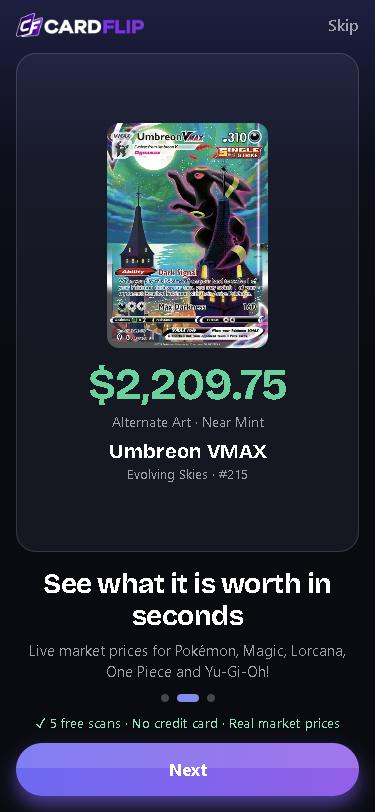
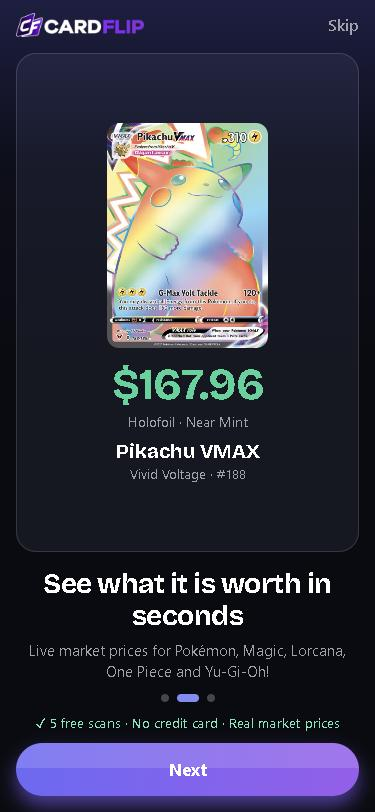
App intro: card 2 reveals the same Pikachu VMAX as card 1 (Chris 2:09am)
"image 2 has to match the card from image 1 and included in image 3": the
reveal card is now the Pikachu VMAX, $167.96, Holofoil - Near Mint, Vivid
Voltage #188; card 3 already lists it. Shot re-taken.

Changed region(s): [[0.2347, 0.1232, 0.7627, 0.6158]]

diff --git a/mobile/src/app/intro.tsx b/mobile/src/app/intro.tsx
@@ -155,11 +155,11 @@ function Corner({ at }: { at: "tl" | "tr" | "bl" | "br" }) {
 function RevealStill() {
   return (
     <View style={stills.frame}>
-      <Image source={umbreon} style={stills.revealCard} contentFit="cover" />
-      <Text style={stills.price}>$2,209.75</Text>
-      <Text style={stills.priceSub}>Alternate Art · Near Mint</Text>
-      <Text style={stills.name}>Umbreon VMAX</Text>
-      <Text style={stills.nameSub}>Evolving Skies · #215</Text>
+      <Image source={pikachu} style={stills.revealCard} contentFit="cover" />
+      <Text style={stills.price}>$167.96</Text>
+      <Text style={stills.priceSub}>Holofoil · Near Mint</Text>
+      <Text style={stills.name}>Pikachu VMAX</Text>
+      <Text style={stills.nameSub}>Vivid Voltage · #188</Text>
     </View>
   );
 }

diff --git a/docs/TO-TEST.md b/docs/TO-TEST.md
@@ -1,7 +1,7 @@
 # To test later
 
 ## 10-29 2:05AM ET: first open = the three swipe cards (APP-PLAN "First open" step 2; Chris 1:56am "start at the swipe cards"; app code only; unpushed, bulk push)
-- [x] What: mobile/src/app/intro.tsx = three swipe cards, Skip top right, dots, Next / Get started, the free deal line (5 free scans · No credit card · Real market prices) over the button. Card 1 Scan any card (the scanner guide with a card in it + Capture), card 2 See what it is worth in seconds (the reveal: card, $2,209.75 green, name), card 3 Track your collection or sell on eBay (three Inventory rows + the Unsold total). Each card is drawn from the app pieces, so a Blender clip can take a card picture slot later with no flow change. Shown once per install (introStore.ts, keychain flag; Skip counts). Launch: signed in → Inventory; first open → intro; after → sign in. Get started → /login for now; the "Scan Your First Card!" page (step 3) slots in there next. Pictures bundled: assets/images/intro (Pikachu VMAX swsh4-188 = the fat Pikachu, Chris 2:06am "fat pikachu, perfect", on card 1 and in the rows; Umbreon VMAX swsh7-215; Charizard ecard3-146; real catalog pictures + prices from the site 2:00am). Logo image top left, not text (Chris 2:03am).
+- [x] What: mobile/src/app/intro.tsx = three swipe cards, Skip top right, dots, Next / Get started, the free deal line (5 free scans · No credit card · Real market prices) over the button. Card 1 Scan any card (the scanner guide with a card in it + Capture), card 2 See what it is worth in seconds (the reveal: the SAME Pikachu VMAX, $167.96 green, Holofoil · Near Mint, name; Chris 2:09am "image 2 has to match the card from image 1 and included in image 3"), card 3 Track your collection or sell on eBay (three Inventory rows + the Unsold total). Each card is drawn from the app pieces, so a Blender clip can take a card picture slot later with no flow change. Shown once per install (introStore.ts, keychain flag; Skip counts). Launch: signed in → Inventory; first open → intro; after → sign in. Get started → /login for now; the "Scan Your First Card!" page (step 3) slots in there next. Pictures bundled: assets/images/intro (Pikachu VMAX swsh4-188 = the fat Pikachu, Chris 2:06am "fat pikachu, perfect", on card 1 and in the rows; Umbreon VMAX swsh7-215; Charizard ecard3-146; real catalog pictures + prices from the site 2:00am). Logo image top left, not text (Chris 2:03am).
 - [x] Pane (mobile web, 375 px): the three cards, Next, Skip → sign in, relaunch → sign in (flag held). tsc + lint clean. Shots docs/shots/intro-1-scan-phone.jpg, intro-2-price-phone.jpg, intro-3-inventory-phone.jpg (sent 2:03am).
 - [ ] Chris: yes on the look (the three shots). Phone (needs a fresh install or the flag cleared): open → three cards, swipe works, Skip and Get started land on sign in, second open skips the intro.
 
